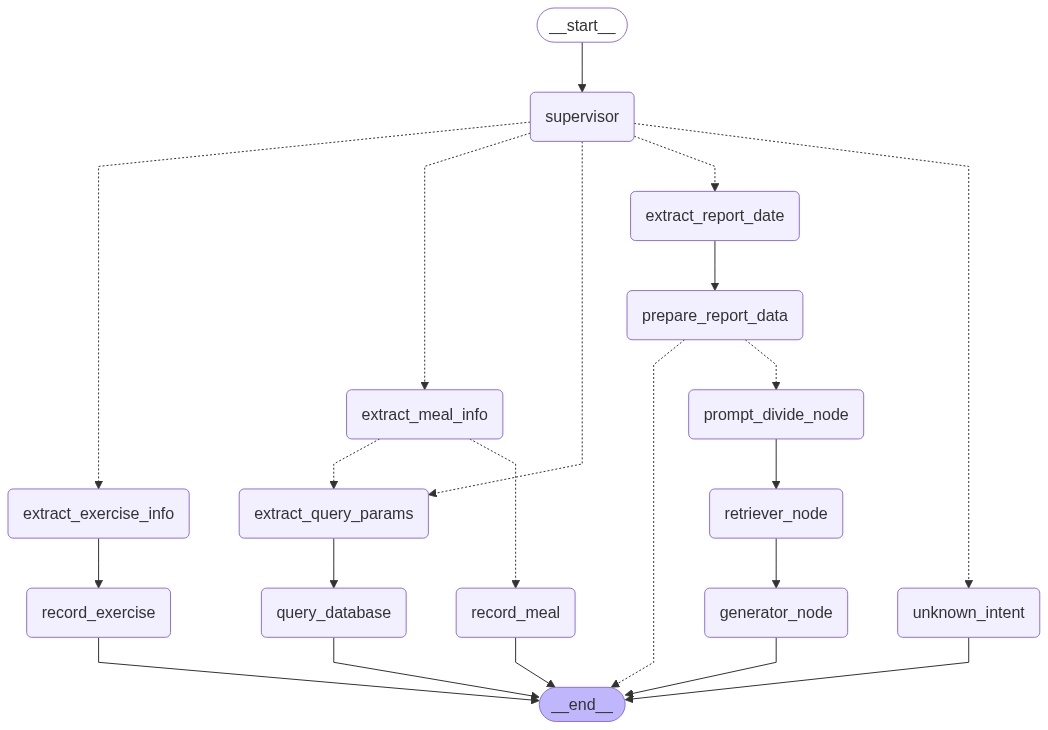
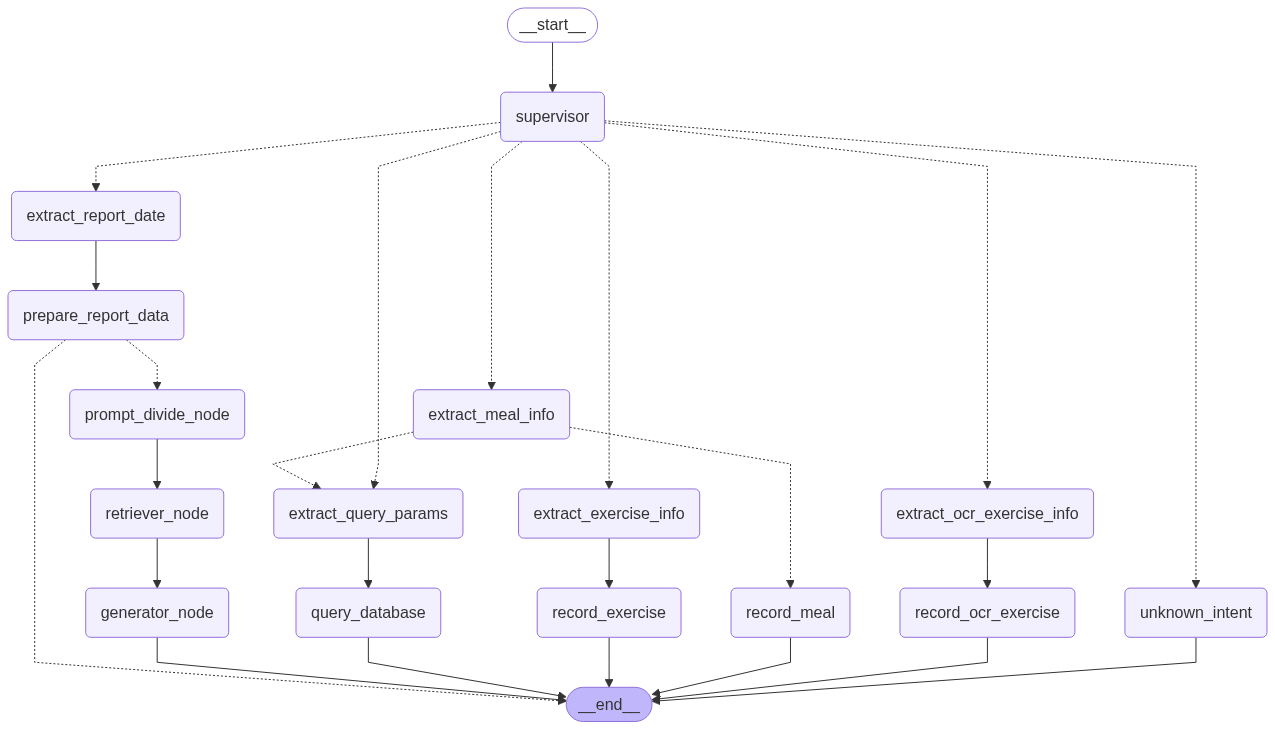
secondcommit

diff --git a/graph.py b/graph.py
@@ -6,6 +6,7 @@ from agents.report_agent import extract_report_date, prepare_report_data, prompt
 from agents.general_agent import unknown_intent
 from agents.supervisor_agent import supervisor
 from agents.query_agent import extract_query_params, query_database
+from agents.ocr_exercise_agent import extract_ocr_exercise_info, record_ocr_exercise
 from database import init_db
 
 # 初始化数据库
@@ -24,6 +25,8 @@ graph_builder.add_node("retriever_node", retriever)
 graph_builder.add_node("generator_node", generator)
 graph_builder.add_node("extract_query_params", extract_query_params)
 graph_builder.add_node("query_database", query_database)
+graph_builder.add_node("extract_ocr_exercise_info", extract_ocr_exercise_info)
+graph_builder.add_node("record_ocr_exercise", record_ocr_exercise)
 graph_builder.add_node("unknown_intent", unknown_intent)
 
 graph_builder.add_node("supervisor", supervisor)
@@ -35,6 +38,8 @@ def route_agent(state: State):
         return "extract_meal_info"
     elif next_agent == "exercise":
         return "extract_exercise_info"
+    elif next_agent == "ocr_exercise":
+        return "extract_ocr_exercise_info"
     elif next_agent == "report":
         return "extract_report_date"
     elif next_agent == "query":
@@ -45,6 +50,7 @@ def route_agent(state: State):
 graph_builder.add_conditional_edges("supervisor", route_agent, {
     "extract_meal_info": "extract_meal_info",
     "extract_exercise_info": "extract_exercise_info",
+    "extract_ocr_exercise_info": "extract_ocr_exercise_info",
     "extract_report_date": "extract_report_date",
     "extract_query_params": "extract_query_params",
     "unknown_intent": "unknown_intent"
@@ -81,6 +87,8 @@ graph_builder.add_conditional_edges("prepare_report_data", should_generate_repor
 graph_builder.add_edge("prompt_divide_node", "retriever_node")
 graph_builder.add_edge("retriever_node", "generator_node")
 graph_builder.add_edge("generator_node", END)
+graph_builder.add_edge("extract_ocr_exercise_info", "record_ocr_exercise")
+graph_builder.add_edge("record_ocr_exercise", END)
 graph_builder.add_edge("extract_query_params", "query_database")
 graph_builder.add_edge("query_database", END)
 graph_builder.add_edge("unknown_intent", END)

diff --git a/agents/report_agent.py b/agents/report_agent.py
@@ -69,7 +69,7 @@ def retriever(state: State):
 def generator(state: State):
     last_message_content = state["messages"][-1][1] if isinstance(state["messages"][-1], tuple) else state["messages"][-1].content
     docs = state["docs"]
-    system_message = "你是一个专业的健康分析助手，你的任务是根据用户的饮食和运动描述，查询相关的营养和健康信息，给出综合分析和建议，包括热量摄入、消耗、营养平衡等。你可以参照以下信息：{docs}，确保不要捏造信息，如果你已知的信息不足以完成任务，请说明。".format(docs="\n".join(docs))
+    system_message = "你是一个专业的健康分析助手，你的任务是根据用户的饮食和运动描述，查询相关的营养和健康信息，给出综合分析和建议，包括热量摄入、消耗、营养平衡等，对于运动信息，基于你的知识进行总结并提出建议。你可以参照以下信息：{docs}，确保不要捏造信息，如果你已知的信息不足以完成任务，请说明。".format(docs="\n".join(docs))
     new_messages = [("system", system_message), ("user", last_message_content)]
     response = llm.invoke(new_messages)
     cleaned_content = re.sub(r'<think>.*?</think>', '', response.content, flags=re.DOTALL).strip()

diff --git a/agents/ocr_exercise_agent.py b/agents/ocr_exercise_agent.py
@@ -9,8 +9,8 @@ import easyocr
 
 def extract_ocr_exercise_info(state: State):
     last_message = state["messages"][-1].content
-    # 假设用户输入包含图片路径，如"从图片 /path/to/image.png 提取"
-    path_match = re.search(r'/[\w/\.]+\.png', last_message)
+    # 假设用户输入包含图片路径，如"从图片 /path/to/image.jpg 提取"
+    path_match = re.search(r'/[\w/\.]+\.(jpg|jpeg|png|gif)', last_message)
     if not path_match:
         return {"messages": [("ai", "请提供有效的图片路径。")]}
     image_path = path_match.group(0)
